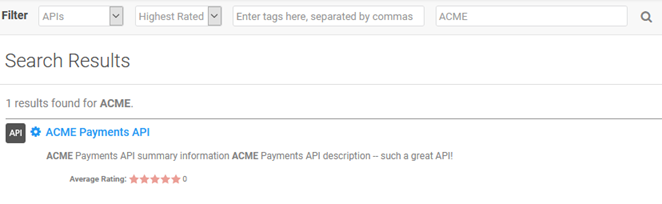
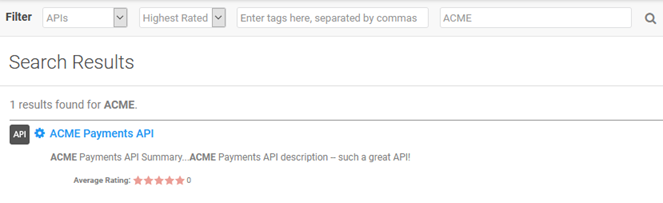
ATMO-38213_search_results_summary_description (updated img + API doc typo fix)

diff --git a/cm/api/consoleresource/m_consoleresource_getSettings.htm b/cm/api/consoleresource/m_consoleresource_getSettings.htm
@@ -343,7 +343,7 @@
 <!-- InstanceBeginEditable name="Intro_AuthRoles" -->
 <p>
 Used prior to login: Returns a subset of the configurable settings for the tenant, such as login domains, password policy, and API and app settings. Additional settings, such as settings for alerts, connections, reviews, discussions, and comments, are returned after login.</p>
-<p><strong>Updated in version: 2020.1.0 and later</strong>. Prior to version 2020.1.0, this operation returned all settings. In 2020.1.0 and later, this operation returns a subset of settings so that the user can bet logged in. After login, an additional operation, <span class="apidoc_code"><a href="m_consoleresource_getPostLoginSettings.htm">GET&#160;/resources/{ResourceVersionKey}/settings</a></span> with <strong>application/vnd.akana.v2020+json</strong> Accept header, returns all settings.</p>
+<p><strong>Updated in version: 2020.1.0 and later</strong>. Prior to version 2020.1.0, this operation returned all settings. In 2020.1.0 and later, this operation returns a subset of settings so that the user can be logged in. After login, an additional operation, <span class="apidoc_code"><a href="m_consoleresource_getPostLoginSettings.htm">GET&#160;/resources/{ResourceVersionKey}/settings</a></span> with <strong>application/vnd.akana.v2020+json</strong> Accept header, returns all settings.</p>
 <p>If you don't know the ResourceVersionKey value, run the <span class="apidoc_code"><a href="m_consoleresource_getResourceVersionKey.htm">GET&#160;/resources/resourceversionkey</a></span> operation.</p>
 <p>The response is cached for one month unless the ResourceVersionKey changes.</p>
 <p id="id_roles"><strong>Authorization Roles/Permissions</strong>: Anyone can perform this operation. Login is not required. Additional settings are returned after login.</p>
